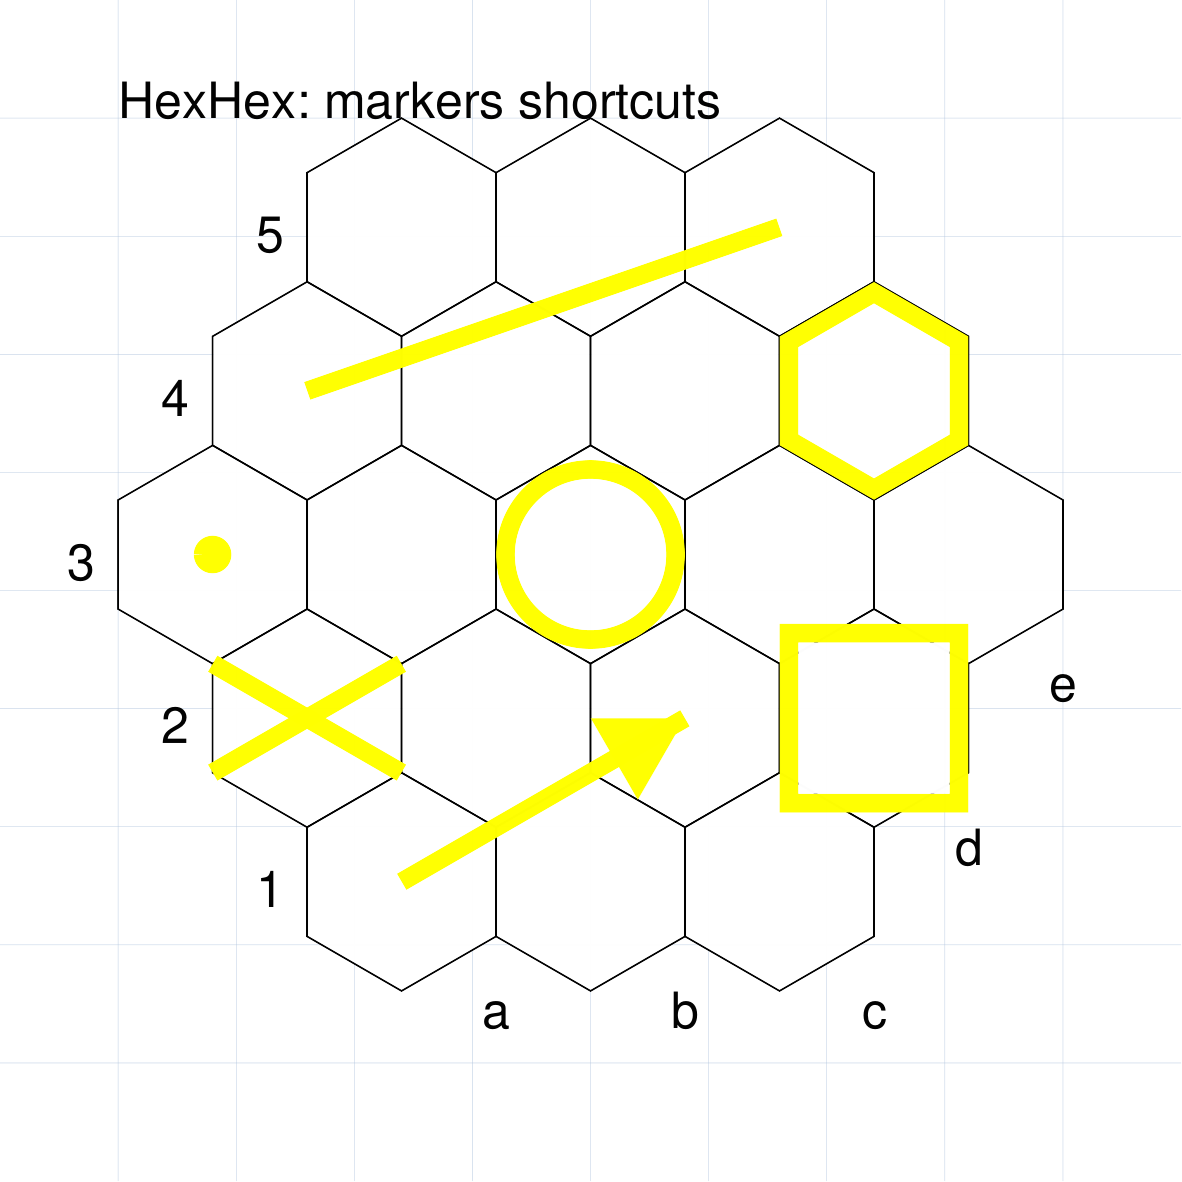
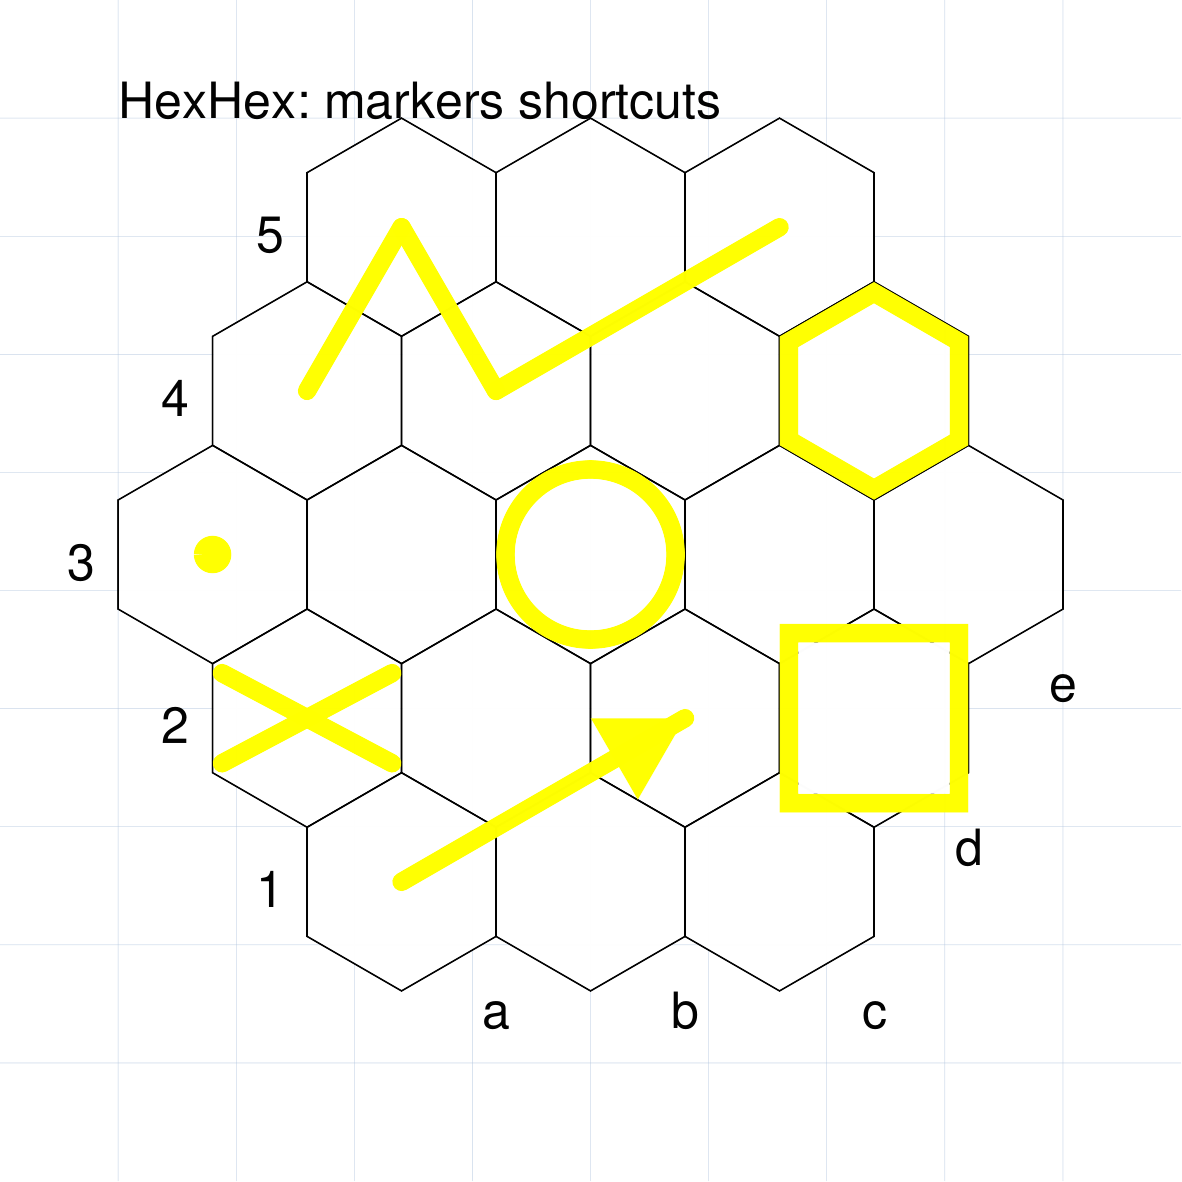
WIP on Abstracts markers

diff --git a/protograf/objects/abstracts.py b/protograf/objects/abstracts.py
@@ -1494,22 +1494,35 @@ class AbstractStateObject(BaseShape):
         def_kwargs = {
             "stroke": stroke,
             "stroke_width": stroke_width,
+            #"transparency": 50,  # TODO - support pmupdf "stoke_opacity"
         }
         # user props
         usr_kwargs = {}
         # If duplicate keys, the last dictionary unpacked overwrites previous values.
 
+        # multiple grid_refs => used for line or arrow
+        links = []
+        if len(grid_refs) > 2:
+            links = [link.centre for link in grid_refs]
+
         match mark.lower():
             case "a":  # arrow
                 check_grid(grid_refs, "arrow (a)", 2)
-                cntr1 = grid_refs[1].centre
-                akwargs = {
-                    "x": cntr0.x,
-                    "y": cntr0.y,
-                    "x1": cntr1.x,
-                    "y1": cntr1.y,
-                    "arrow": True,
-                }
+                if links:
+                    akwargs = {
+                        "links": links,
+                        "stroke_ends": "rounded"
+                    }
+                else:
+                    cntr1 = grid_refs[1].centre
+                    akwargs = {
+                        "x": cntr0.x,
+                        "y": cntr0.y,
+                        "x1": cntr1.x,
+                        "y1": cntr1.y,
+                        "arrow": True,
+                        "stroke_ends": "rounded",
+                    }
                 kwargs = {**def_kwargs, **usr_kwargs, **akwargs}
                 Line(**kwargs)
             case "c":  # circle
@@ -1553,47 +1566,55 @@ class AbstractStateObject(BaseShape):
                 Square(**kwargs)
             case "l":  # line
                 check_grid(grid_refs, "line (l)", 2)
-                cntr1 = grid_refs[1].centre
-                lkwargs = {
-                    "x": cntr0.x,
-                    "y": cntr0.y,
-                    "x1": cntr1.x,
-                    "y1": cntr1.y,
-                }
+                if links:
+                    lkwargs = {"links": links, "stroke_ends": "rounded"}
+                else:
+                    cntr1 = grid_refs[1].centre
+                    lkwargs = {
+                        "x": cntr0.x,
+                        "y": cntr0.y,
+                        "x1": cntr1.x,
+                        "y1": cntr1.y,
+                        "stroke_ends": "rounded",
+                    }
                 kwargs = {**def_kwargs, **usr_kwargs, **lkwargs}
                 Line(**kwargs)
             case "x":  # cross "X"
                 if grid_refs[0].type in ["HexShape", HexShape]:
                     xkwargs = {
-                        "x": grid_refs[0].sw.x,
-                        "y": grid_refs[0].sw.y,
-                        "x1": grid_refs[0].ne.x,
-                        "y1": grid_refs[0].ne.y,
+                        "x": grid_refs[0].sw.x + offset,
+                        "y": grid_refs[0].sw.y - offset,
+                        "x1": grid_refs[0].ne.x - offset,
+                        "y1": grid_refs[0].ne.y + offset,
+                        "stroke_ends": "rounded",
                     }
                     kwargs = {**def_kwargs, **usr_kwargs, **xkwargs}
                     Line(**kwargs)
                     zkwargs = {
-                        "x": grid_refs[0].nw.x,
-                        "y": grid_refs[0].nw.y,
-                        "x1": grid_refs[0].se.x,
-                        "y1": grid_refs[0].se.y,
+                        "x": grid_refs[0].nw.x + offset,
+                        "y": grid_refs[0].nw.y + offset,
+                        "x1": grid_refs[0].se.x - offset,
+                        "y1": grid_refs[0].se.y - offset,
+                        "stroke_ends": "rounded",
                     }
                     kwargs = {**def_kwargs, **usr_kwargs, **zkwargs}
                     Line(**kwargs)
                 elif grid_refs[0].type in ["RectangleShape", RectangleShape]:
                     xkwargs = {
-                        "x": grid_refs[0].sw.x,
-                        "y": grid_refs[0].sw.y,
-                        "x1": grid_refs[0].ne.x,
-                        "y1": grid_refs[0].ne.y,
+                        "x": grid_refs[0].sw.x + offset,
+                        "y": grid_refs[0].sw.y - offset,
+                        "x1": grid_refs[0].ne.x - offset,
+                        "y1": grid_refs[0].ne.y + offset,
+                        "stroke_ends": "rounded",
                     }
                     kwargs = {**def_kwargs, **usr_kwargs, **xkwargs}
                     Line(**kwargs)
                     zkwargs = {
-                        "x": grid_refs[0].nw.x,
-                        "y": grid_refs[0].nw.y,
-                        "x1": grid_refs[0].se.x,
-                        "y1": grid_refs[0].se.y,
+                        "x": grid_refs[0].nw.x + offset,
+                        "y": grid_refs[0].nw.y + offset,
+                        "x1": grid_refs[0].se.x - offset,
+                        "y1": grid_refs[0].se.y - offset,
+                        "stroke_ends": "rounded",
                     }
                     kwargs = {**def_kwargs, **usr_kwargs, **zkwargs}
                     Line(**kwargs)

diff --git a/protograf/objects/abstracts_pieces.py b/protograf/objects/abstracts_pieces.py
@@ -31,6 +31,8 @@ NAMED_CHESS_WHITE = {
 NAMED_GO = {
     "white": "gW",
     "black": "gB",
+    "grey": "gG",
+    "red": "gR",
 }
 NAMED_SHOGI_BLACK = {
     "osho": "sk",
@@ -139,6 +141,8 @@ def piece_shape(key: str, name: str = "", **kwargs) -> object:
         # ---- go
         "gB": image(files("protograf").joinpath(f"{RESOURCES}/go/black.png"), **kwargs),
         "gW": image(files("protograf").joinpath(f"{RESOURCES}/go/white.png"), **kwargs),
+        "gR": image(files("protograf").joinpath(f"{RESOURCES}/go/red.png"), **kwargs),
+        "gG": image(files("protograf").joinpath(f"{RESOURCES}/go/grey.png"), **kwargs),
         # ---- chess
         "cK": image(
             files("protograf").joinpath(f"{RESOURCES}/chess/Chess_klt45.svg"), **kwargs

diff --git a/examples/objects/abstracts.py b/examples/objects/abstracts.py
@@ -423,7 +423,7 @@ AbstractState(
     markers=[
         'a a1 c2',
         'd a3',
-        'l b4 e5',
+        'l b4 c5 c4 e5',
         'c c3',
         'h e4',
         's d2',
@@ -447,7 +447,7 @@ AbstractState(
     markers=[
         'a a1 c2',
         'd a3',
-        'l b4 e5',
+        'l b4 c5 e5',
         'c c3',
         'h e4',
         's d2',
